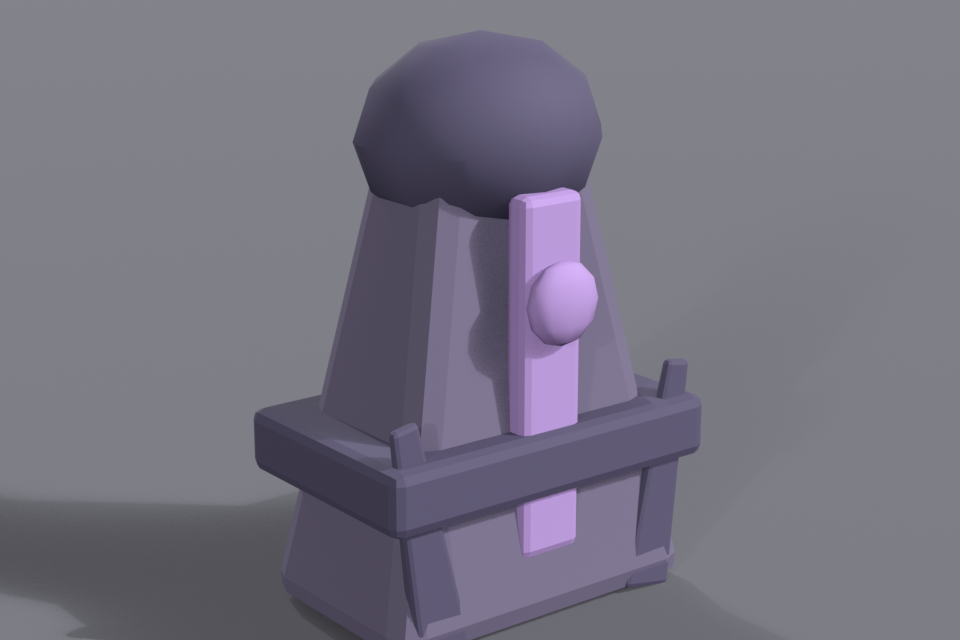
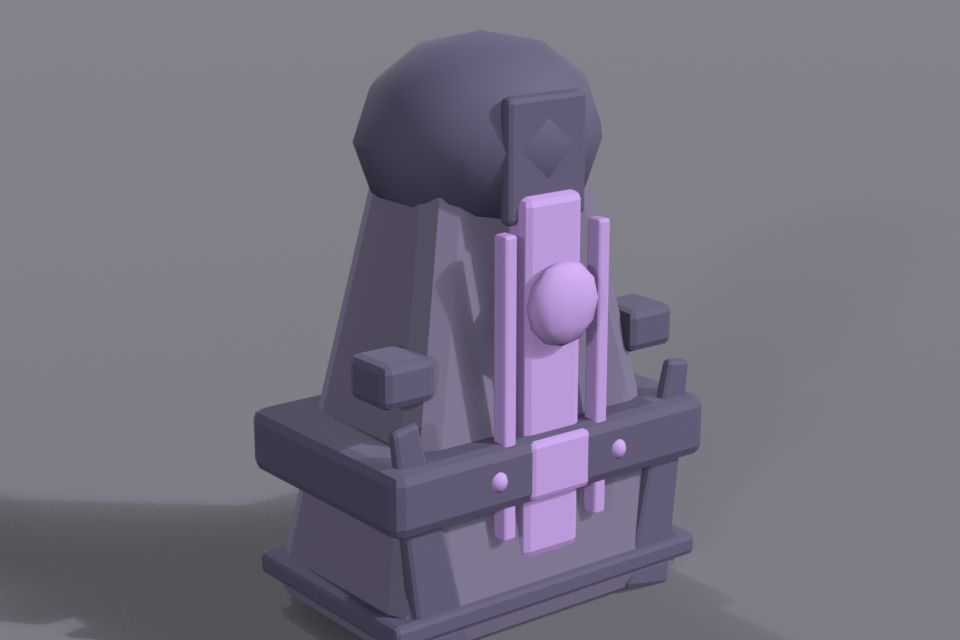
art(armor): refine robe

diff --git a/art_src/scripts/blender_models_armors.py b/art_src/scripts/blender_models_armors.py
@@ -332,6 +332,25 @@ def build_armor_robe():
                 taper=0.5,
             )
         )
+    # 兜帽内衬 + 面影 (守 x±6.5 / 高[-0.08,19.1] / 引擎深[-4.2,4.76])
+    p.append(part_sphere("hood_lining", (0, -0.3, 15.8), 3.6, SHADOW_DK,
+                         segments=12, rings=8, scale=(1.0, 0.85, 0.75)))
+    p.append(part_box("face_shadow", (0, -3.2, 15.5), (3.2, 0.5, 4),
+                      SHADOW_DK, bevel=0.2))
+    # 前襟次级发光纹
+    for i, x in enumerate([-1.9, 1.9]):
+        p.append(part_box("trim_glow_%d" % i, (x, -3.7, 8.4), (0.5, 0.6, 10),
+                          SHADOW_GLOW, bevel=0.1))
+    # 下摆装饰 + 袖口
+    p.append(part_box("hem_band", (0, 0, 1.2), (12.8, 8.0, 0.8), SHADOW_DK, bevel=0.2))
+    for i, x in enumerate([-5, 5]):
+        p.append(part_box("cuff_%d" % i, (x, -2.0, 9), (2, 2, 1.5), SHADOW_DK, bevel=0.3))
+    # 腰饰
+    p.append(part_box("waist_gem", (0, -4.0, 5.6), (2.5, 0.5, 2),
+                      SHADOW_GLOW, bevel=0.2))
+    for i, x in enumerate([-2.5, 2.5]):
+        p.append(part_sphere("waist_stone_%d" % i, (x, -4.0, 5.6), 0.4,
+                             SHADOW_GLOW, segments=10, rings=6))
     return join_parts(p, "item_armor_robe")
 
 
